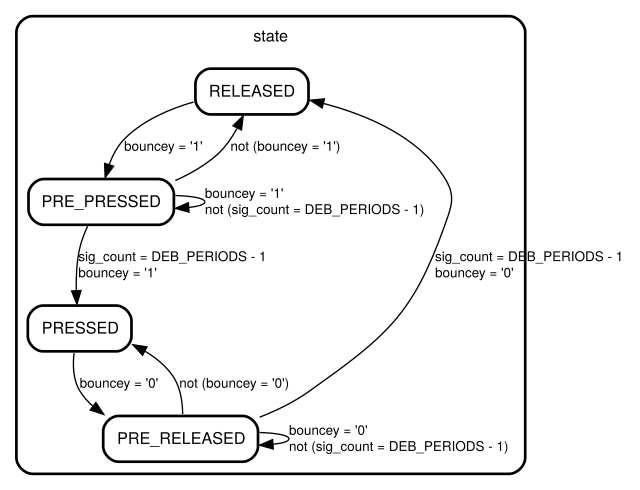
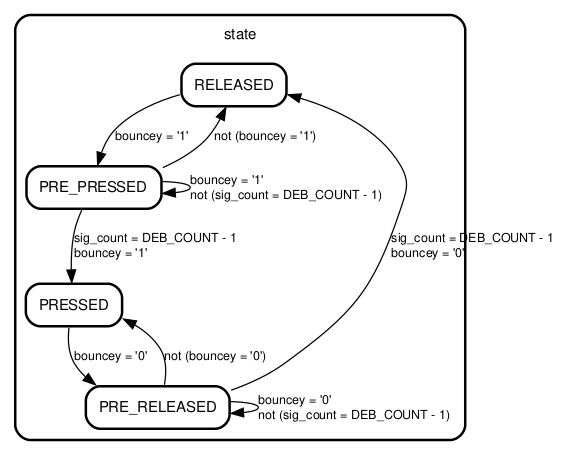
Instructions for lab7-fsm completed

diff --git a/lab7-fsm/README.md b/lab7-fsm/README.md
@@ -93,11 +93,11 @@ The main methods to debounce a bouncy button are:
 
       | **Port name** | **Direction** | **Type** | **Description** |
       | :-: | :-: | :-- | :-- |
-      | `clk`   | input  | `std_logic` | Main clock |
-      | `rst`   | input  | `std_logic` | High-active synchronous reset |
-      | `en`    | input  | `std_logic` | Clock enable input |
-      | `bouncey` | input  | `std_logic` | Button input |
-      | `clean` | output | `std_logic` | Debounced button output |
+      | `clk`     | input  | `std_logic` | Main clock |
+      | `rst`     | input  | `std_logic` | High-active synchronous reset |
+      | `en`      | input  | `std_logic` | Clock enable input |
+      | `bouncey` | input  | `std_logic` | Bouncey button input |
+      | `clean`   | output | `std_logic` | Debounced button output |
 
 2. The inactive level of the on-board push buttons is low. Periodically read the button signal, and if the value is high, start counting a sequence of consecutive high values. If there is an uninterrupted sequence of `DEB_COUNT = 4` high values, consider the button pressed. The counter resets to zero upon receiving a low sample. When releasing the button, the FSM counts the same number of low-value samples before considering the button released.
 
@@ -149,7 +149,7 @@ The main methods to debounce a bouncy button are:
                        when PRE_PRESSED =>
                            -- If button = 1 increment counter
 
-                               -- if counter = DEB_PERIODS-1 change to PRESSED
+                               -- if counter = DEB_COUNT-1 change to PRESSED
 
                            -- else change to RELEASED
 
@@ -159,7 +159,7 @@ The main methods to debounce a bouncy button are:
                        when PRE_RELEASED =>
                            -- If button = 0 then increment counter
 
-                               -- if counter = DEB_PERIODS-1 change to RELEASED;
+                               -- if counter = DEB_COUNT-1 change to RELEASED;
 
                            -- else clear counter and change to PRESSED;
 
@@ -193,11 +193,9 @@ The main methods to debounce a bouncy button are:
    >
    >    ![Internal signals simulation](images/vivado_signals.png)
 
+   Your simulation should be similar to the following figure.
 
-
-   TODO: Figure of possible simulation output
-
-
+   ![vivado simulation debounce](images/vivado_simulation_debounce.png)
 
 <a name="part4"></a>
 
@@ -245,13 +243,9 @@ A positive **edge detector** generates a single clock pulse when the input signa
       end architecture behavioral;
       ```
 
-2. Add new edge detector outputs to simulation source `tb_debounce` and relaunch the simulation.
+2. Add new edge detector outputs to the simulation source `tb_debounce` and relaunch the simulation. Ensure that your simulations resemble the figure below:
 
-
-
-   TODO: Figure of possible simulation output
-
-
+   ![vivado simulation edge-detector](images/vivado_simulation_edge-detect.png)
 
 <a name="challenges"></a>
 
